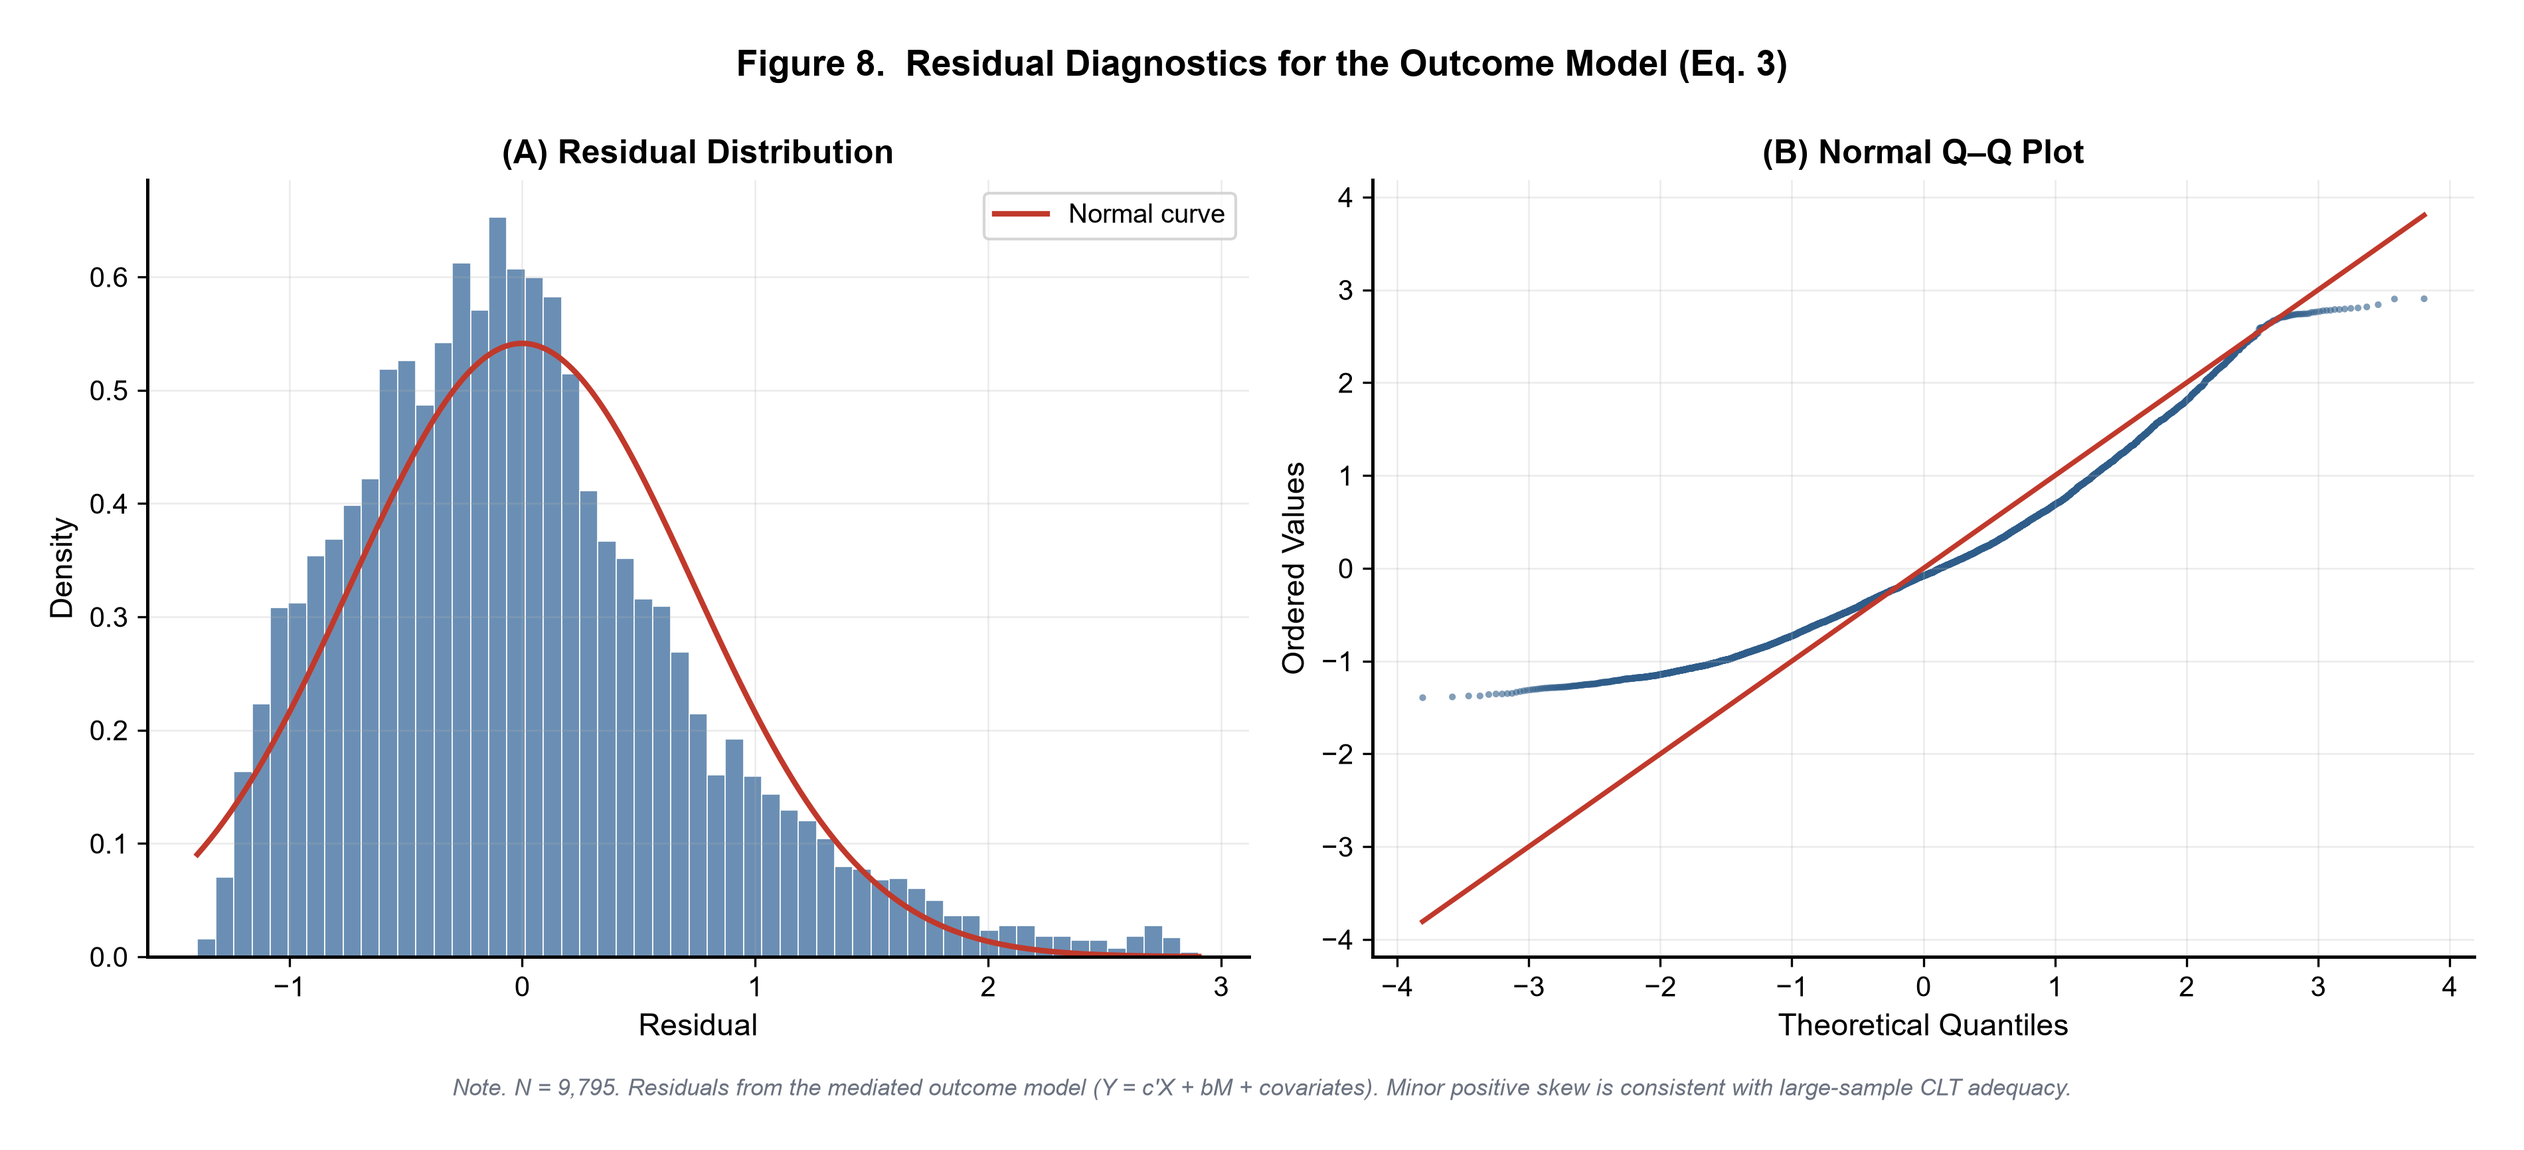
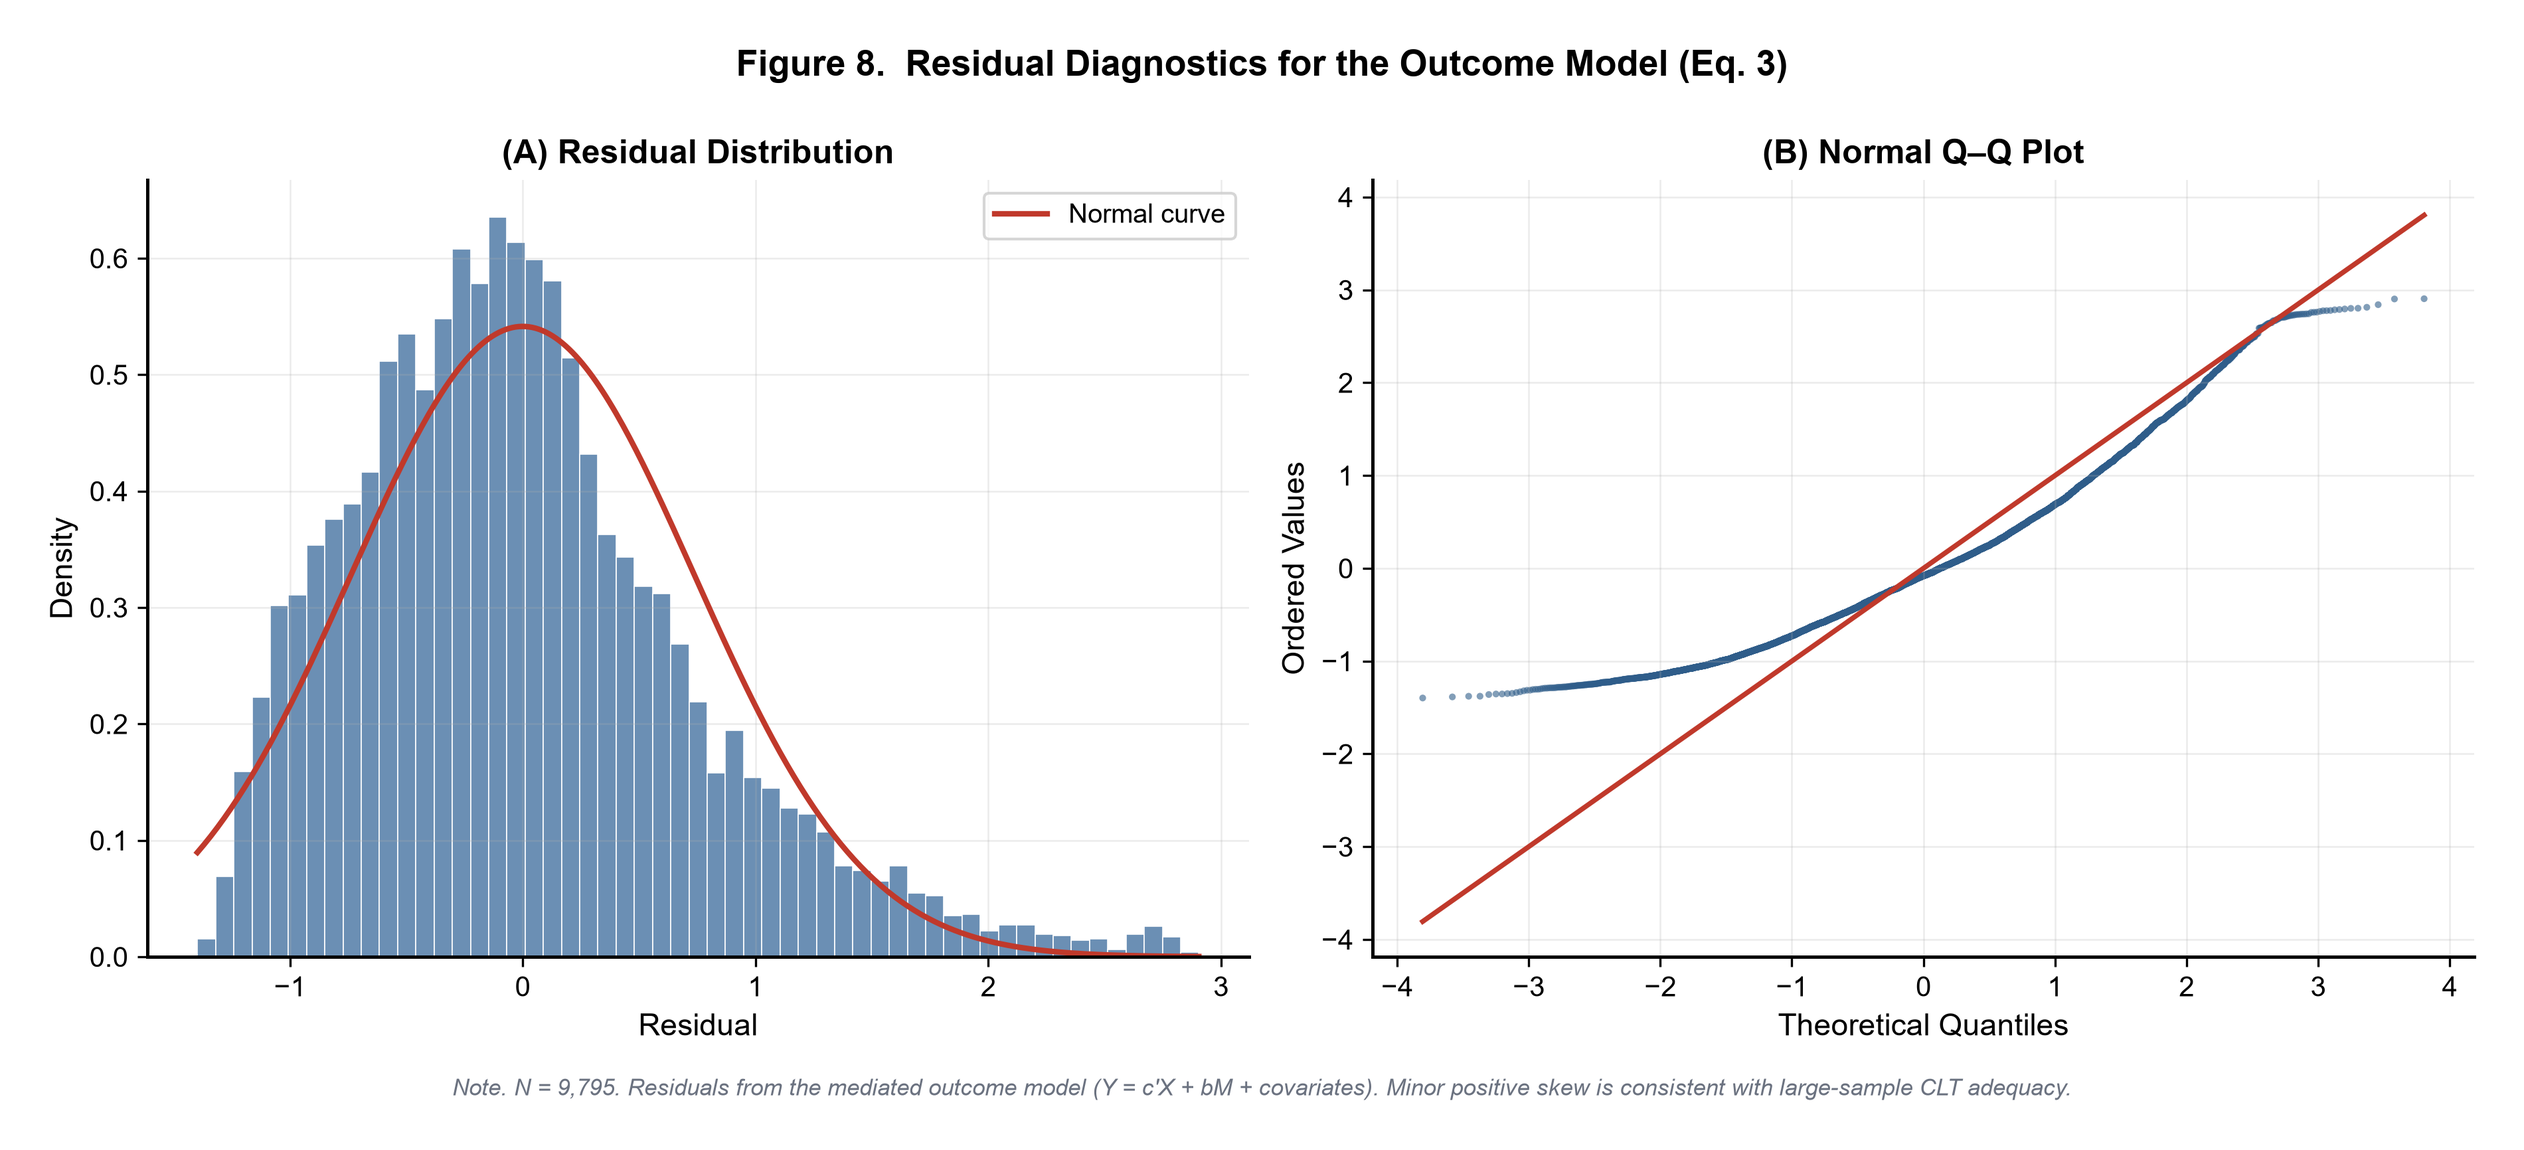
Add benchmarks and regenerate the reports and affected figures
Reviewer 3 asked for runtime, scalability and a numerical comparison against
existing mediation software. outputs/benchmark_report.md records all three on
the reference machine: the complete analysis takes 10.6 s, of which 10.6 s is
the 5,000-resample bootstrap, and cost scales linearly with sample size (a
500-resample bootstrap takes 12.6 s at n = 100,000).

The indirect effect per 100 mg/day agrees to machine precision with an
independent statsmodels formula-API fit and with pingouin.mediation_analysis
(-0.102146 in all three), and with the Imai-Keele-Tingley simulation estimator
in statsmodels.stats.mediation to within its Monte Carlo error (-0.101871).
That comparison is also asserted in the test suite.

outputs/analysis_report.md is the full human-readable report for the primary
model, including the exclusion table, the three kinds of interval per path and
the H1-H3 decisions. Figures 7 and 8 are regenerated because the corrected
gender coding shifts them in the sixth decimal place.

diff --git a/outputs/analysis_report.md b/outputs/analysis_report.md
@@ -1,0 +1,143 @@
+# Mediation Analysis Report
+
+Caffeine intake -> perceived stress -> sleep duration. Source: synthetic_coffee_health_10000.csv (SYNTHETIC, n = 9,795).
+
+> **Synthetic data.** The primary dataset is synthetic. Its `Stress_Level` field was generated partly from sleep- and lifestyle-related quantities, so mediator and outcome are not independently measured and the indirect effect reported below is a statistical association inside a simulated data-generating process, not evidence of a biological mechanism. External validation against LEMURS and NHANES is reported separately under `outputs/`.
+
+## 1. Sample
+
+| Step                                                 |   n remaining |   n removed |
+|:-----------------------------------------------------|--------------:|------------:|
+| Raw records                                          |         10000 |           0 |
+| After age filter (18-65 years)                       |          9946 |          54 |
+| After listwise deletion on analysis variables        |          9946 |           0 |
+| After 1.5x IQR outlier rule: Caffeine_mg             |          9907 |          39 |
+| After 1.5x IQR outlier rule: Sleep_Hours             |          9881 |          26 |
+| After 1.5x IQR outlier rule: BMI                     |          9843 |          38 |
+| After 1.5x IQR outlier rule: Heart_Rate              |          9795 |          48 |
+| After 1.5x IQR outlier rule: Physical_Activity_Hours |          9795 |           0 |
+| Final analytic sample                                |          9795 |           0 |
+
+Final analytic sample: **n = 9,795**. Covariates: Age, Gender_Male, Gender_Other, BMI, Physical_Activity_Hours, Heart_Rate. Gender coding: `three_level` (Female is the reference category; respondents reporting "Other" have their own indicator and are not pooled with women).
+
+## 2. Descriptive statistics
+
+| Variable                   |    n |   Mean |     SD |   Median |   Min |   Max |   Skewness |   Kurtosis |
+|:---------------------------|-----:|-------:|-------:|---------:|------:|------:|-----------:|-----------:|
+| Daily Caffeine Intake (mg) | 9795 | 236.45 | 135.12 |    234.8 |   0   | 620.6 |      0.184 |     -0.485 |
+| Stress Score (2-8)         | 9795 |   3.17 |   1.95 |      2   |   2   |   8   |      1.415 |      0.707 |
+| Sleep Duration (hours)     | 9795 |   6.65 |   1.21 |      6.6 |   3.3 |  10   |      0.027 |     -0.211 |
+| Age (years)                | 9795 |  34.77 |  10.92 |     34   |  18   |  65   |      0.268 |     -0.616 |
+| BMI (kg/m2)                | 9795 |  23.93 |   3.84 |     24   |  15   |  34.5 |     -0.031 |     -0.337 |
+| Physical Activity (h/week) | 9795 |   7.49 |   4.32 |      7.5 |   0   |  15   |      0.002 |     -1.201 |
+| Resting Heart Rate (bpm)   | 9795 |  70.48 |   9.64 |     70   |  50   |  96   |      0.019 |     -0.444 |
+
+Gender:
+
+| Category   |    n |    % |
+|:-----------|-----:|-----:|
+| Female     | 4897 | 50   |
+| Male       | 4677 | 47.7 |
+| Other      |  221 |  2.3 |
+
+Stress level:
+
+| Category   |    n |    % |
+|:-----------|-----:|-----:|
+| Low        | 6868 | 70.1 |
+| Medium     | 2018 | 20.6 |
+| High       |  909 |  9.3 |
+
+## 3. Bivariate correlations
+
+| Pair                        |       r |           p |    n |
+|:----------------------------|--------:|------------:|-----:|
+| Caffeine <-> Stress         |  0.1479 | 4.71767e-49 | 9795 |
+| Caffeine <-> Sleep duration | -0.1902 | 2.03141e-80 | 9795 |
+| Stress <-> Sleep duration   | -0.7893 | 0           | 9795 |
+
+## 4. Hypothesis tests
+
+Estimates and intervals are per 100 mg of caffeine per day. H1 and H2 use the HC3 model-based interval; H3 uses the percentile-bootstrap interval for the indirect effect.
+
+| Hypothesis   | Statement                                                                             | Tested quantity   | Expected sign   |   Estimate (per 100 mg) |   95% CI low (per 100 mg) |   95% CI high (per 100 mg) | CI method            | p      | Decision   |
+|:-------------|:--------------------------------------------------------------------------------------|:------------------|:----------------|------------------------:|--------------------------:|---------------------------:|:---------------------|:-------|:-----------|
+| H1           | Higher daily caffeine intake is associated with shorter sleep duration.               | c                 | -               |                 -0.1687 |                   -0.186  |                    -0.1513 | model-based (HC3)    | <0.001 | SUPPORTED  |
+| H2           | Higher daily caffeine intake is associated with higher perceived stress.              | a                 | +               |                  0.2121 |                    0.1833 |                     0.2408 | model-based (HC3)    | <0.001 | SUPPORTED  |
+| H3           | Perceived stress mediates the association between caffeine intake and sleep duration. | a*b               | -               |                 -0.1021 |                   -0.1157 |                    -0.0883 | percentile bootstrap | <0.001 | SUPPORTED  |
+
+## 5. Path estimates (manuscript Table 2)
+
+Standard errors are heteroskedasticity-consistent (HC3). Rescaled coefficients for the exposure paths are per 100 mg caffeine/day; path b is per one point of the stress scale.
+
+| Path   | Description                     |      Coef |   SE (HC3) |       t | p      |   95% CI low |   95% CI high |   Coef (rescaled) |   CI low (rescaled) |   CI high (rescaled) | Scale            |
+|:-------|:--------------------------------|----------:|-----------:|--------:|:-------|-------------:|--------------:|------------------:|--------------------:|---------------------:|:-----------------|
+| a      | a  (Caffeine -> Stress)         |  0.002121 |   0.000147 |   14.46 | <0.001 |     0.001833 |      0.002408 |            0.2121 |              0.1833 |               0.2408 | per 100 mg/day   |
+| b      | b  (Stress -> Sleep | Caffeine) | -0.481648 |   0.00293  | -164.36 | <0.001 |    -0.487391 |     -0.475905 |           -0.4816 |             -0.4874 |              -0.4759 | per stress point |
+| c      | c  (Caffeine -> Sleep, total)   | -0.001687 |   8.8e-05  |  -19.08 | <0.001 |    -0.00186  |     -0.001513 |           -0.1687 |             -0.186  |              -0.1513 | per 100 mg/day   |
+| c'     | c' (Caffeine -> Sleep, direct)  | -0.000665 |   5.5e-05  |  -12.15 | <0.001 |    -0.000772 |     -0.000558 |           -0.0665 |             -0.0772 |              -0.0558 | per 100 mg/day   |
+
+Classical (non-robust) intervals, for comparison:
+
+| Path   |   SE (classical) |   95% CI low (classical) |   95% CI high (classical) |
+|:-------|-----------------:|-------------------------:|--------------------------:|
+| a      |      0.000144773 |              0.00183698  |               0.00240455  |
+| b      |      0.00385656  |             -0.489208    |              -0.474088    |
+| c      |      8.89537e-05 |             -0.00186092  |              -0.00151219  |
+| c'     |      5.58369e-05 |             -0.000774547 |              -0.000555643 |
+
+Percentile-bootstrap intervals for every path:
+
+| Path   |   95% CI low (bootstrap) |   95% CI high (bootstrap) |
+|:-------|-------------------------:|--------------------------:|
+| a      |              0.00183316  |               0.00240267  |
+| b      |             -0.487327    |              -0.476059    |
+| c      |             -0.00185809  |              -0.00151072  |
+| c'     |             -0.000770006 |              -0.000553516 |
+
+## 6. Indirect, direct and total effects
+
+| Effect                            |   Estimate | 95% CI low   | 95% CI high   | CI method            |
+|:----------------------------------|-----------:|:-------------|:--------------|:---------------------|
+| Indirect (a*b)                    |  -0.001021 | -0.001157    | -0.000883     | percentile bootstrap |
+| Direct (c')                       |  -0.000665 | -0.000770    | -0.000554     | percentile bootstrap |
+| Total (c)                         |  -0.001687 | -0.001858    | -0.001511     | percentile bootstrap |
+| Indirect, per 100 mg              |  -0.102146 | -0.115687    | -0.088303     | percentile bootstrap |
+| Indirect, completely standardised |  -0.114128 | n/a          | n/a           | point estimate       |
+| Proportion mediated (%)           |  60.5649   | 55.511732    | 65.692373     | percentile bootstrap |
+
+Primary inference: the percentile-bootstrap interval for a*b (5,000 resamples, seed 42). The Sobel test (z = -14.403, p = <0.001) is reported only as a normal-theory comparison.
+
+Cohen's f2 = 1.5939 is the increment in explained variance when the mediator enters the outcome model (delta R2 = 0.5916). It is **not** a mediation effect size and is not interpreted as one; the mediation effect sizes are the standardised indirect effect (-0.1141) and the proportion mediated (60.6%, 95% CI [55.5%, 65.7%]).
+
+## 7. Baron-Kenny conditions
+
+| Condition             | Met   |
+|:----------------------|:------|
+| c_significant         | yes   |
+| a_significant         | yes   |
+| b_significant         | yes   |
+| direct_effect_reduced | yes   |
+
+Conclusion: **PARTIAL MEDIATION** (statistical indirect association under the assumed ordering, not an identified causal effect).
+
+## 8. Assumption diagnostics
+
+| Variable                |   VIF |
+|:------------------------|------:|
+| Caffeine_mg             |  1.03 |
+| Stress_Score            |  1.02 |
+| Age                     |  1    |
+| Gender_Male             |  1.02 |
+| Gender_Other            |  1.02 |
+| BMI                     |  1    |
+| Physical_Activity_Hours |  1    |
+| Heart_Rate              |  1    |
+
+| Model                    |   durbin_watson |   breusch_pagan_lm |   breusch_pagan_p | homoskedastic_at_05   |   jarque_bera |   jarque_bera_p |   residual_skew |   residual_kurtosis |        r2 |
+|:-------------------------|----------------:|-------------------:|------------------:|:----------------------|--------------:|----------------:|----------------:|--------------------:|----------:|
+| Total effect (Y ~ X + C) |         1.95993 |            6.78376 |      0.451737     | True                  |       11.3108 |      0.00349851 |       0.0129817 |             2.83556 | 0.037196  |
+| Mediated (Y ~ X + M + C) |         2.01148 |          651.385   |      2.07897e-135 | False                 |     1474.51   |      0          |       0.838542  |             3.89458 | 0.628816  |
+| Mediator (M ~ X + C)     |         1.97038 |          117.294   |      2.80191e-22  | False                 |     3320      |      0          |       1.37991   |             3.71983 | 0.0223184 |
+
+Breusch-Pagan rejects homoskedasticity in the mediated model (p = <0.001), which is why HC3 standard errors are the reported ones.

diff --git a/outputs/benchmark_report.md b/outputs/benchmark_report.md
@@ -1,0 +1,48 @@
+# Computational Benchmarks
+
+Machine: Windows-11-10.0.26200-SP0; Python 3.13.5; numpy 2.5.2, statsmodels 0.14.6.
+Seed 42; commit `3b8690ed`.
+
+## 1. Runtime of the analysis pipeline
+
+| Stage                   |   Median seconds |   Min seconds |   Max seconds |   Repeats |
+|:------------------------|-----------------:|--------------:|--------------:|----------:|
+| load_and_clean          |           0.0256 |        0.0254 |        0.027  |         3 |
+| fit_paths               |           0.0155 |        0.0154 |        0.0159 |         3 |
+| bootstrap_5000          |          10.559  |       10.3276 |       10.8251 |         3 |
+| TOTAL (single analysis) |          10.6001 |      nan      |      nan      |         3 |
+
+## 2. Scalability
+
+Samples at or below the analytic sample size are drawn from the analytic sample itself; larger ones are simulated with the same covariate structure, so the curve extends beyond the study's n.
+
+|      n | Source                       |   Fit seconds |   Bootstrap seconds (B=500) |   Bootstrap us per replicate |
+|-------:|:-----------------------------|--------------:|----------------------------:|-----------------------------:|
+|    500 | analytic sample (subsampled) |        0.0032 |                       0.092 |                        184.5 |
+|   1000 | analytic sample (subsampled) |        0.0037 |                       0.129 |                        258.9 |
+|   2500 | analytic sample (subsampled) |        0.0061 |                       0.354 |                        708.8 |
+|   5000 | analytic sample (subsampled) |        0.0079 |                       0.567 |                       1134.5 |
+|   9795 | analytic sample (subsampled) |        0.0156 |                       1.006 |                       2012.2 |
+|  25000 | simulated                    |        0.0299 |                       2.733 |                       5465.7 |
+| 100000 | simulated                    |        0.1153 |                      12.612 |                      25223.1 |
+
+Bootstrap cost is linear in both the number of replicates and the sample size, because each replicate is a least-squares solve on an n x (k+2) design.
+
+## 3. Agreement with established mediation software
+
+All effects are per 100 mg of caffeine per day.
+
+| Software                                               | Estimator                                |   Indirect effect (per 100 mg) |   95% CI low |   95% CI high |   Direct effect (per 100 mg) |   Total effect (per 100 mg) |   Monte Carlo SE |   Seconds |
+|:-------------------------------------------------------|:-----------------------------------------|-------------------------------:|-------------:|--------------:|-----------------------------:|----------------------------:|-----------------:|----------:|
+| bkmediation 1.0.0 (this package, B=1000)               | OLS paths + percentile bootstrap         |                      -0.102146 |    -0.115004 |    -0.0883645 |                   -0.0665095 |                   -0.168656 |     nan          |   nan     |
+| statsmodels OLS (formula API), product of coefficients | closed form, no resampling               |                      -0.102146 |   nan        |   nan         |                   -0.0665095 |                   -0.168656 |     nan          |     0.035 |
+| statsmodels.stats.mediation.Mediation (n_rep=1000)     | Imai-Keele-Tingley parametric simulation |                      -0.101871 |    -0.130248 |    -0.0733907 |                   -0.0664766 |                   -0.168348 |       0.00045867 |    67.2   |
+| pingouin.mediation_analysis (n_boot=1000)              | Preacher-Hayes percentile bootstrap      |                      -0.102146 |    -0.114979 |    -0.088276  |                   -0.0665095 |                  nan        |     nan          |     3.79  |
+
+Difference in the estimated indirect effect versus this package:
+
+- statsmodels OLS (formula API), product of coefficients: absolute difference 2.51e-15 h (0.00% of the point estimate).
+- statsmodels.stats.mediation.Mediation (n_rep=1000): absolute difference 2.75e-04 h (0.27% of the point estimate). That is 0.6 Monte Carlo standard errors of its own simulation noise.
+- pingouin.mediation_analysis (n_boot=1000): absolute difference 1.68e-15 h (0.00% of the point estimate).
+
+The closed-form statsmodels fit agrees to machine precision: the two implementations solve the same least-squares problem by different routes, which is the numerical check. The Imai-Keele-Tingley estimator draws the potential mediator at random in every replicate, so it agrees only up to its own Monte Carlo noise, and its interval is wider for that reason rather than because the effect is less certain.
